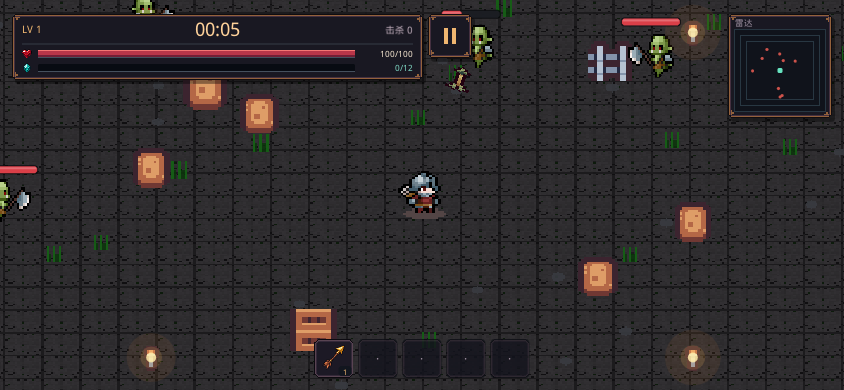
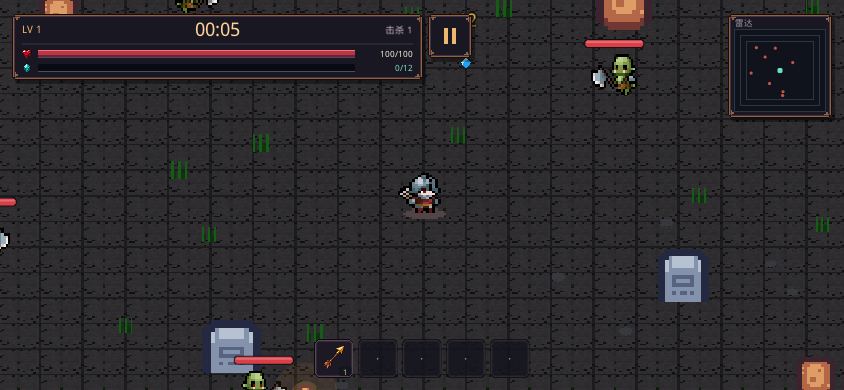
feat(game): 战斗地图面积扩大 5 倍
地图从 90×54 扩到约 201×121（长宽各 ×√5，面积 5 倍）：玩家/敌人/宝箱的移动与刷新边界统一从 Survivors.h 的地图常量派生；地面改为 2×2 张石砖贴图铺满，装饰、火把与障碍位置同步放大，草/石子按 5 倍补足、障碍按原密度补到约 140 个；出战准备页地图尺寸文字同步。

验证：Emscripten 3.1.51 构建通过；H5 402×874 / 844×390 截图；开局日志 890 个对象、142 个障碍；触屏拖动移动与 HUD 正常。

AI 工具：DeepSeek Harness（worker / deepseek-flash）。
提示词摘要：地图扩大 5 倍，先打开发版测试，PR 保持 draft。

diff --git a/engine/src/game/Survivors.cpp b/engine/src/game/Survivors.cpp
@@ -2251,8 +2251,8 @@ void SurvivorsDirector::SpawnEnemy(World& world, const Vec2& position, int type,
     for (int attempt = 0; attempt < 8 && CircleHitsObstacle(spawn, archetype.contactRadius); ++attempt) {
         spawn += Vec2(RandomRange(-1.5f, 1.5f), RandomRange(-1.5f, 1.5f));
     }
-    spawn.x = Clamp(spawn.x, -40.0f, 40.0f);
-    spawn.y = Clamp(spawn.y, -22.0f, 22.0f);
+    spawn.x = Clamp(spawn.x, -kSurvivorsSpawnHalfX, kSurvivorsSpawnHalfX);
+    spawn.y = Clamp(spawn.y, -kSurvivorsSpawnHalfY, kSurvivorsSpawnHalfY);
 
     GameObject* enemy = SpawnSprite(world, archetype.name,
                                     archetype.animator ? "sprites/orc_walk.png" : "sprites/kenney_tilemap.png",
@@ -2385,7 +2385,7 @@ void SurvivorsDirector::SpawnBuffChest(World& world) {
         const float angle = Random01() * kTwoPi;
         const float distance = RandomRange(12.0f, 20.0f);
         const Vec2  candidate = origin + Vec2(std::cos(angle), std::sin(angle)) * distance;
-        if (std::fabs(candidate.x) <= 40.0f && std::fabs(candidate.y) <= 22.0f &&
+        if (std::fabs(candidate.x) <= kSurvivorsSpawnHalfX && std::fabs(candidate.y) <= kSurvivorsSpawnHalfY &&
             !CircleHitsObstacle(candidate, 0.7f)) {
             spawn = candidate;
             break;
@@ -3683,7 +3683,7 @@ void BuildSurvivorsLevel(World& world, AssetManager& assets) {
         assets.CreateTextureRGBA("grass_proc", size, size, grass.data());
     }
 
-    // 地面：16x16 程序化石砖，64x64 重复成大贴图，1 个精灵铺满 90x54
+    // 地面：16x16 程序化石砖，64x64 重复成大贴图，2×2 张铺满扩大后的地图
     {
         const int size = 16;
         std::vector<u8> pixels(size * size * 4, 0);
@@ -3730,18 +3730,29 @@ void BuildSurvivorsLevel(World& world, AssetManager& assets) {
             }
         }
         assets.CreateTextureRGBA("floor_big", bigSize, bigSize, big.data());
-        SpawnSprite(world, "地面", "floor_big", Vec2(0.0f, 0.0f), Vec2(90.0f, 54.0f), -10);
+        // 2×2 张同样的石砖贴图铺满扩大后的地图，砖块世界尺寸与旧地图基本一致。
+        const float floorW = kSurvivorsMapWidth * 0.5f;
+        const float floorH = kSurvivorsMapHeight * 0.5f;
+        for (int gy = 0; gy < 2; ++gy) {
+            for (int gx = 0; gx < 2; ++gx) {
+                const Vec2 center((gx == 0 ? -0.5f : 0.5f) * floorW, (gy == 0 ? -0.5f : 0.5f) * floorH);
+                SpawnSprite(world, "地面", "floor_big", center, Vec2(floorW, floorH), -10);
+            }
+        }
     }
 
-    // 地图装饰：草和石子（无碰撞）
-    for (int i = 0; i < 80; ++i) {
-        const Vec2 position(RandomRange(-42.0f, 42.0f), RandomRange(-24.0f, 24.0f));
+    const float decorHalfX = kSurvivorsArenaHalfX - 1.0f;
+    const float decorHalfY = kSurvivorsArenaHalfY - 1.0f;
+
+    // 地图装饰：草和石子（无碰撞）。面积扩大 5 倍，数量也按 5 倍补足，避免大块空地。
+    for (int i = 0; i < 400; ++i) {
+        const Vec2 position(RandomRange(-decorHalfX, decorHalfX), RandomRange(-decorHalfY, decorHalfY));
         if (Length(position) < 2.5f) continue;
         if (CircleHitsObstacle(position, 0.8f)) continue;
         SpawnSprite(world, "草丛", "grass_proc", position, Vec2(0.85f, 0.85f), -9);
     }
-    for (int i = 0; i < 60; ++i) {
-        const Vec2 position(RandomRange(-42.0f, 42.0f), RandomRange(-24.0f, 24.0f));
+    for (int i = 0; i < 300; ++i) {
+        const Vec2 position(RandomRange(-decorHalfX, decorHalfX), RandomRange(-decorHalfY, decorHalfY));
         if (Length(position) < 2.5f) continue;
         if (CircleHitsObstacle(position, 0.6f)) continue;
         SpawnSprite(world, "石子", "pebble_proc", position, Vec2(0.55f, 0.55f), -9);
@@ -3760,14 +3771,23 @@ void BuildSurvivorsLevel(World& world, AssetManager& assets) {
         }
     }
 
-    // 火把：纯装饰，但给暗色地图一点暖色光源
+    // 火把：纯装饰，但给暗色地图一点暖色光源；位置随地图同比例放大并补足外圈。
+    auto spawnTorch = [&](const Vec2& position) {
+        GameObject* torch =
+            SpawnSprite(world, "火把", "sprites/kenney_tilemap.png", position, Vec2(1.1f, 1.1f), -8);
+        if (auto* sprite = torch->GetComponent<SpriteRendererComponent>()) ApplyTileSprite(sprite, 10, 5);
+        g_torches.push_back(position);
+    };
     const Vec2 torchPositions[] = {{-10.0f, 6.0f},  {10.0f, 6.0f},  {-10.0f, -6.0f}, {10.0f, -6.0f},
                                    {-20.0f, 12.0f}, {20.0f, 12.0f}, {-20.0f, -12.0f}, {20.0f, -12.0f},
                                    {-30.0f, 0.0f},  {30.0f, 0.0f}};
-    for (const Vec2& position : torchPositions) {
-        GameObject* torch = SpawnSprite(world, "火把", "sprites/kenney_tilemap.png", position, Vec2(1.1f, 1.1f), -8);
-        if (auto* sprite = torch->GetComponent<SpriteRendererComponent>()) ApplyTileSprite(sprite, 10, 5);
-        g_torches.push_back(position);
+    for (const Vec2& base : torchPositions) {
+        spawnTorch(Vec2(base.x * kSurvivorsMapScale, base.y * kSurvivorsMapScale));
+    }
+    for (int i = 0; i < 24; ++i) {
+        const Vec2 position(RandomRange(-decorHalfX, decorHalfX), RandomRange(-decorHalfY, decorHalfY));
+        if (CircleHitsObstacle(position, 0.9f)) continue;
+        spawnTorch(position);
     }
 
     // 地图障碍：石柱、木箱、木桶、书架、围栏、桌子、大锅
@@ -3792,14 +3812,34 @@ void BuildSurvivorsLevel(World& world, AssetManager& assets) {
         {-4.0f, -5.0f, 0.7f, 0.6f, 6, 3},     {7.0f, 5.0f, 0.7f, 0.6f, 6, 6},
         {-10.0f, 1.0f, 0.6f, 0.55f, 5, 6},    {10.0f, -1.0f, 0.6f, 0.55f, 5, 6},
     };
-    for (const ObstacleSpec& spec : obstacles) {
-        GameObject* object = SpawnSprite(world, "障碍", "sprites/kenney_tilemap.png", Vec2(spec.x, spec.y),
-                                         Vec2(spec.hx * 2.0f + 0.35f, spec.hy * 2.0f + 0.35f), 0);
+    auto spawnObstacle = [&](float x, float y, float hx, float hy, int row, int col) {
+        GameObject* object = SpawnSprite(world, "障碍", "sprites/kenney_tilemap.png", Vec2(x, y),
+                                         Vec2(hx * 2.0f + 0.35f, hy * 2.0f + 0.35f), 0);
         if (auto* sprite = object->GetComponent<SpriteRendererComponent>()) {
-            ApplyTileSprite(sprite, spec.row, spec.col);
+            ApplyTileSprite(sprite, row, col);
             sprite->color = Vec4(0.95f, 0.95f, 0.95f, 1.0f);
         }
-        g_obstacles.push_back({Vec2(spec.x, spec.y), Vec2(spec.hx, spec.hy)});
+        g_obstacles.push_back({Vec2(x, y), Vec2(hx, hy)});
+    };
+    for (const ObstacleSpec& spec : obstacles) {
+        spawnObstacle(spec.x * kSurvivorsMapScale, spec.y * kSurvivorsMapScale, spec.hx, spec.hy, spec.row,
+                      spec.col);
+    }
+    // 面积扩大 5 倍后按原密度补足障碍（原 28 个/90×54，约补到 140 个）。
+    static const int kExtraObstacleTiles[][2] = {{6, 2}, {5, 6}, {5, 3}, {6, 6},
+                                                  {6, 3}, {5, 4}, {6, 5}, {5, 5}};
+    const int kExtraObstacleCount = 112;
+    int       extraObstacles = 0;
+    for (int attempt = 0; attempt < 900 && extraObstacles < kExtraObstacleCount; ++attempt) {
+        const Vec2  position(RandomRange(-decorHalfX, decorHalfX), RandomRange(-decorHalfY, decorHalfY));
+        const float hx = RandomRange(0.7f, 1.15f);
+        const float hy = RandomRange(0.65f, 1.05f);
+        if (Length(position) < 6.0f) continue;
+        if (CircleHitsObstacle(position, (std::max)(hx, hy) + 0.9f)) continue;
+        const int* tile =
+            kExtraObstacleTiles[attempt % (sizeof(kExtraObstacleTiles) / sizeof(kExtraObstacleTiles[0]))];
+        spawnObstacle(position.x, position.y, hx, hy, tile[0], tile[1]);
+        ++extraObstacles;
     }
 
     // 玩家
@@ -3813,7 +3853,7 @@ void BuildSurvivorsLevel(World& world, AssetManager& assets) {
     }
     animator->OnUpdate(0.0f);
     auto* playerComponent = player->AddComponent<SurvivorsPlayerComponent>();
-    playerComponent->arenaHalf = Vec2(43.0f, 25.0f);
+    playerComponent->arenaHalf = Vec2(kSurvivorsArenaHalfX, kSurvivorsArenaHalfY);
     playerComponent->RefreshDerivedStats();
 
     // 装饰随机数固定，避免关卡每次加载长得不一样；玩法随机数再复位

diff --git a/engine/src/game/Survivors.h b/engine/src/game/Survivors.h
@@ -50,6 +50,16 @@ enum class SurvivorsPickupType : int {
 // 一局最多拥有 5 个技能：职业给的 1 个基础技能 + 最多 4 个掉落技能。
 constexpr int kSurvivorsSkillCount = 10;
 constexpr int kSurvivorsMaxLoadout = 5;
+
+// 地图面积相对原 90×54 基准扩大 5 倍（长宽各 ×√5）。玩家/敌人/宝箱的移动与刷新边界
+// 都从这里派生，避免扩大地面后还把怪锁在旧范围里。
+constexpr float kSurvivorsMapScale = 2.2360679f;
+constexpr float kSurvivorsMapWidth = 90.0f * kSurvivorsMapScale;
+constexpr float kSurvivorsMapHeight = 54.0f * kSurvivorsMapScale;
+constexpr float kSurvivorsArenaHalfX = 43.0f * kSurvivorsMapScale;
+constexpr float kSurvivorsArenaHalfY = 25.0f * kSurvivorsMapScale;
+constexpr float kSurvivorsSpawnHalfX = 40.0f * kSurvivorsMapScale;
+constexpr float kSurvivorsSpawnHalfY = 22.0f * kSurvivorsMapScale;
 // 技能等级上限 20；箭矢可分配强化合计 24 级（1 基础 + 攻速 6 + 攻击 8 + 范围 4 + 散射 5），按 20 级封顶。
 constexpr int kSurvivorsMaxSkillLevel = 20;
 constexpr int kSurvivorsMaxArrowSpeedLevel = 6;
@@ -161,7 +171,7 @@ public:
     bool  alive = true;
     float invulnerable = 0.0f;
     float hitFlash = 0.0f;
-    Vec2  arenaHalf{43.0f, 25.0f};
+    Vec2  arenaHalf{kSurvivorsArenaHalfX, kSurvivorsArenaHalfY};
 
     void OnUpdate(float dt) override;
     void AddXp(float amount);
@@ -301,7 +311,7 @@ struct SurvivorsMinimapRect {
 };
 struct SurvivorsMinimapSnapshot {
     Vec2                              player;
-    Vec2                              arenaHalf{43.0f, 25.0f};
+    Vec2                              arenaHalf{kSurvivorsArenaHalfX, kSurvivorsArenaHalfY};
     std::vector<SurvivorsMinimapMarker> markers;
     std::vector<SurvivorsMinimapRect>   obstacles;
 };

diff --git a/engine/src/game/SurvivorsUI.cpp b/engine/src/game/SurvivorsUI.cpp
@@ -2043,8 +2043,10 @@ void SurvivorsDirector::DrawPrepareScreen(World& world, float vx, float vy, floa
             draw->AddQuadFilled(c.P(markerX, markerY - 6.0f), c.P(markerX + 6.0f, markerY),
                                 c.P(markerX, markerY + 6.0f), c.P(markerX - 6.0f, markerY), kGoldBright);
             DrawTextCentered(draw, m_ui, c, 22.0f, cardX + cardW * 0.5f, cardY + 158.0f, kText, "灰石地牢");
-            DrawTextCentered(draw, m_ui, c, 14.0f, cardX + cardW * 0.5f, cardY + 190.0f, kTextDim,
-                             "90×54 · 石柱、木箱与火把");
+            char mapInfo[64];
+            std::snprintf(mapInfo, sizeof(mapInfo), "%.0f×%.0f · 石柱、木箱与火把", kSurvivorsMapWidth,
+                          kSurvivorsMapHeight);
+            DrawTextCentered(draw, m_ui, c, 14.0f, cardX + cardW * 0.5f, cardY + 190.0f, kTextDim, mapInfo);
         } else {
             DrawText(draw, m_ui, c, 22.0f, cardX + 16.0f, cardY + 22.0f, kText, "生存目标");
             DrawWrapped(draw, m_ui, c, 14.0f, cardX + 16.0f, cardY + 62.0f, cardW - 32.0f, kText,

diff --git a/CHANGELOG.md b/CHANGELOG.md
@@ -6,6 +6,7 @@
 ## [Unreleased]
 
 ### Added
+- 2D 幸存者：战斗地图面积扩大到原来的 5 倍（90×54 → 约 201×121，长宽各 ×√5），玩家/敌人/宝箱移动与刷新边界、地面、装饰、火把和障碍同步扩展，障碍按原密度补足
 - 2D 幸存者手机 HUD 按手机 HUD 原型（mobile-hud）重排：等级/计时/击杀与生命/经验合并为一块顶栏，44px 暂停键、右上紧凑雷达、底部 5 格固定技能槽；隐藏摇杆，屏幕任意位置按下拖动即可移动；HUD 读取微信安全区与胶囊位置避开顶部遮挡
 - Web/微信小游戏第一阶段：Emscripten + WebGL 1.0 后端复用 2D 幸存者的 C++ 玩法与 ImGui UI，提供 H5 页面、微信 `wx-transformer` 打包脚本、触控摇杆与移动端缩放；CI 新增 Web 构建与包体检查
 - 2D 幸存者：新增小地图（右下角，显示玩家/怪物/掉落/障碍/宝箱）与顶部最近宝箱罗盘
